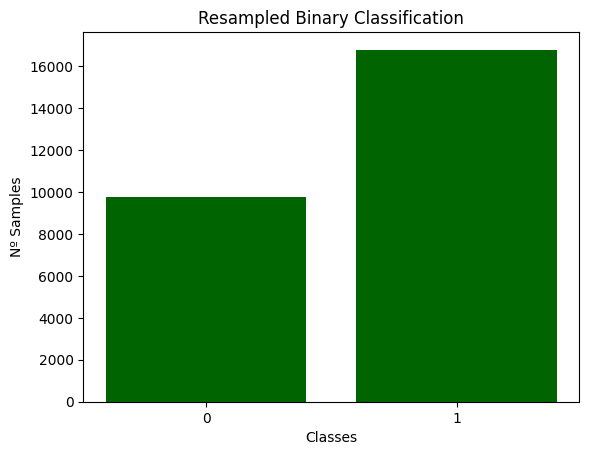
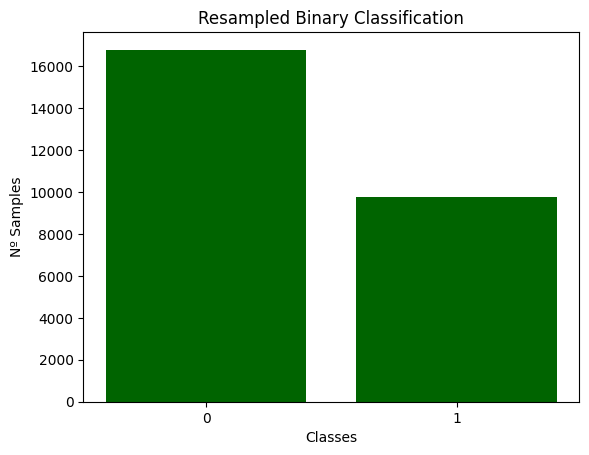
plots and readme

Changed region(s): [[0.5806, 0.0923, 0.9474, 0.4308], [0.1528, 0.0923, 0.5195, 0.4308]]

diff --git a/README.md b/README.md
@@ -33,14 +33,31 @@ Dataset: The [__HAM10000__](https://dataverse.harvard.edu/dataset.xhtml?persiste
 
 # Data Visualization
 
+
 <img src="visuals/lesions_plot.png" alt="wine" width="1024"/>
+
+**nv** - Melanocytic nevi</br>
+**mel** - Melanoma</br>
+**bkl** - Benign keratosis-like lesions</br>
+**bcc** - Basal cell carcinoma</br>
+**akiec** - Actinic keratoses and intraepithelial carcinoma</br>
+**vasc** - Vascular lesions</br>
+**df** - Dermatofibroma</br>
 
 <img src="visuals/classes_plot.png" alt="wine" width="1024"/>
 
 <img src="visuals/resampled_classes_plot.png" alt="wine" width="1024"/>
 
-<img src="visuals/history_plot.png" alt="wine" width="1024"/>
+**0** - Not Cancer</br>
+**1** - Cancer
+# Model Performance
+## Model Arquitecture
 
+<img src="visuals/model_sum.png" alt="wine" width="1024"/>
+
+# Model History
+<img src="visuals/history_plot.png" alt="wine" width="1024"/>
+# Model Evaluation
 <img src="visuals/matrix_model_v2_05.png" alt="wine" width="1024"/>
 
 # Website
